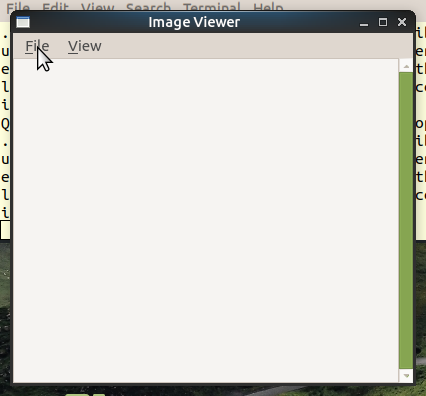
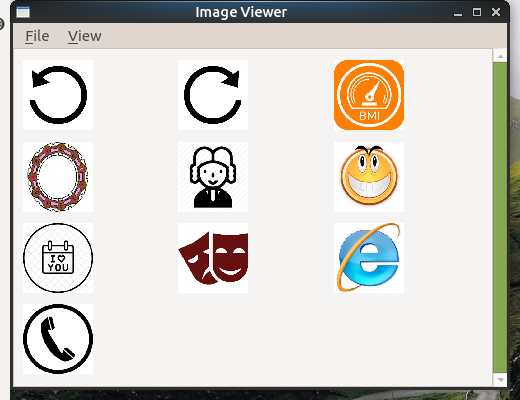
Edit screenshots, README, __myApp__

diff --git a/__myApp__.py b/__myApp__.py
@@ -16,7 +16,7 @@ class ImageViewer(QMainWindow):
         self.setWindowTitle("Image Viewer")
         self.setLayout(self.myLayout)
         self.createMenus()
-        self.a = int(input('Please Select: 1) Gallery 2)Slide: '))
+        self.a = int(input('Please Select: 1) Gallery Mode 2)Edit Mode: '))
         if self.a == 1:
             self.ImgGallery()
         elif self.a == 2:

diff --git a/README.md b/README.md
@@ -1,10 +1,9 @@
 # ImageViewer
 
 ## ScreenShots
-|![](./screenshots/imG1.png)|
-|![](./screenshots/imG2.png)|
-|![](./screenshots/imG3.png)|
-|![](./screenshots/imG4.png)|
+| Gallery Mode | Edit Mode |
+|:-------:|:-------:|
+|![](./screenshots/imG1.png)|![](./screenshots/imG2.png)|
 
 
 ## Manual
